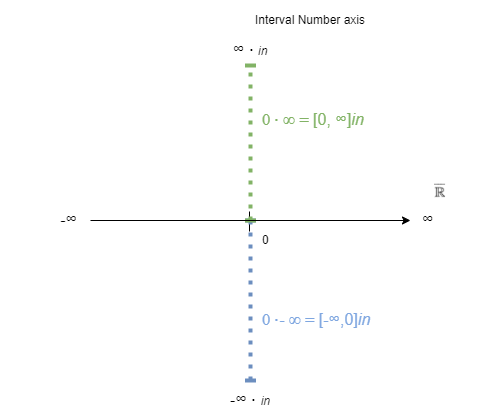
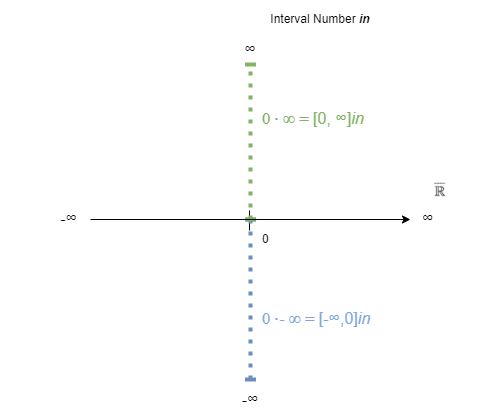
Fixed spelling and improved illustration.

diff --git a/README.md b/README.md
@@ -6,7 +6,7 @@
 
 Thanks to Eric Lengyel for asking the initial right questions.
 
-Thanks a lot to my family and their patience having me as a 🤓.
+Thanks a lot, to my family and their patience having me as a 🤓.
 
 ## Note
 
@@ -61,7 +61,7 @@ $[x_0, x_1] = \{ x_0 = a \cdot \beta | \beta \in [a, b[ \land x_1 = \alpha \cdot
 
 ### Definition
 
-As the result is probably not **all** numbers in the interval, **any** or at least **one** number in the interval has to be expressed as a new interval number *in*:
+As the result is probably not **all** numbers in the interval, **any** or at least **one** number in the interval must be expressed as a new interval number *in*:
 
 $[x_0, x_1]in := \{ x \in \overline {\mathbb R} | \exists x \in [x_0, x_1] \}$
 
@@ -77,6 +77,8 @@ $0 \cdot -∞ = [-∞, 0]in$
 
 ![](illustrations/visual_interval_number.png)
 
+The above illustration introduces a new axis like the complex number axis $i$.  
+
 ### Interval number operation
 
 These is the given mathematical operation.
@@ -85,7 +87,7 @@ These is the given mathematical operation.
 
 $[x_0, x_1]in \cdot [y_0, y_1]in = [\min(x_0 \cdot y_0, x_1 \cdot y_1), \max(x_0 \cdot y_0, x_1 \cdot y_1)]in$
 
-Regarding the algebraic structure [3], only the required multiplication for the given rules are investigated.
+Regarding the algebraic structure [3], only the required multiplication for the given rules is investigated.
 
 This algebraic structure of the interval numbers is at least a Magma [4], as all multiplications in $\overline {\mathbb R}$ including ***Rule I*** and ***Rule II*** are defined.
 
@@ -107,7 +109,7 @@ In the [test](test/) folder is a C++ implementation of the interval number and t
 
 Using this approach, other indeterminate forms could be expressed as an interval and solved to equations as well.
 
-For now it is shown, that the algebraic structure of the interval number is a Magma. However, including the other mathematical operations, the algebraic structure could be further investigated.
+For now, it is shown, that the algebraic structure of the interval number is a Magma. However, including the other mathematical operations, the algebraic structure could be further investigated.
 
 Furthermore, other intervals for indeterminate forms could be estimated and defined.
 
